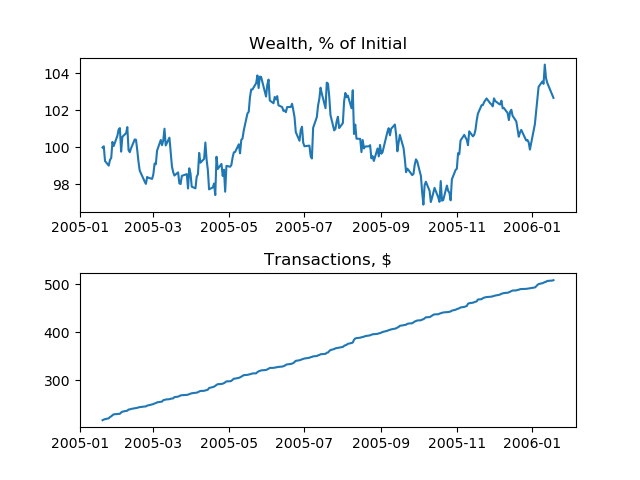
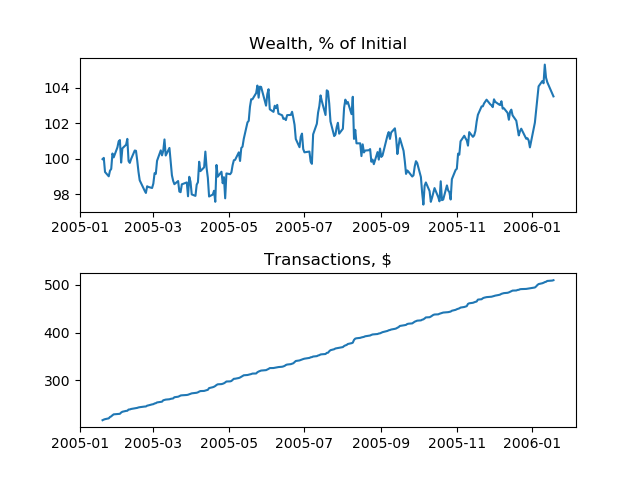
added mm interest to portfolio calculations, updated graphs

diff --git a/trading_strats.py b/trading_strats.py
@@ -3,7 +3,7 @@ import numpy as np
 from matplotlib import pyplot as plt
 
 class Portfolio:
-	def __init__(self, prices, dates):
+	def __init__(self, prices, mm_rates, dates):
 		self.W = []
 		self.cumulative_tc = []
 		self.purchases = []
@@ -16,21 +16,22 @@ class Portfolio:
 		self.prices = prices
 		self.N = len(dates)
 		self.dates = dates
+		self.mm_rates = mm_rates
 
 	def run(self):
 		num_assets = Portfolio.num_s+1
 		pi = np.full(Portfolio.num_s, 1./num_assets)
 		theta_n_prev = np.zeros(Portfolio.num_s)
-		# TODO add money market interest 
-		# use same-day 3mo treasury rate to approximate
-		# traded on all days, except holdiays
-		# r_daily = (1.+r/100.0)**1/360? -1.
 		mm_balance = self.initW
 		for i in range(self.N):
 			p_n = self.prices[:,i]
 			if i == 0:
 				w_n_prev =  self.initW
 			else:
+				day_gap = (self.dates[i]-self.dates[i-1])/np.timedelta64(1,'D')
+				mm_rate_prev = self.mm_rates[i-int(day_gap)]
+				mm_interest_rate = (1.+mm_rate_prev)**day_gap
+				mm_balance = mm_balance*mm_interest_rate
 				w_n_prev =  np.sum(theta_n_prev*p_n)+mm_balance
 			theta_n = w_n_prev*pi/p_n
 			delta_shares = theta_n - theta_n_prev
@@ -115,8 +116,23 @@ CSCO=pd.read_csv('CSCO.csv')["Adj Close"].to_numpy()
 GE=pd.read_csv('GE.csv')["Adj Close"].to_numpy()
 prices = np.vstack((MSFT, CSCO, GE))
 t_dates = pd.to_datetime(pd.read_csv('GE.csv')["Date"]).to_numpy()
-3mo_rates=pd.read_csv('DGS3MO.csv')['Rate']
 
+# get indices of each trade date from treasury 3mo dates array
+treasury_3mo = pd.read_csv('DGS3MO.csv')
+treasury_3mo_dates = pd.to_datetime(treasury_3mo["DATE"]).to_numpy()
+indices = []
+last_elem = 0.
+for t_date in t_dates:
+	if t_date in treasury_3mo_dates:
+		last_elem = np.where(treasury_3mo_dates==t_date)[0][0]
+	indices.append(last_elem)
+
+# get the 3mo rates for the subset indices
+raw_3mo_rates=pd.to_numeric(treasury_3mo["Rate"]).to_numpy()
+treasury_rates = raw_3mo_rates[np.array(indices)]
+
+# use same-day 3mo treasury rate to approximate daily MM rate
+mm_rates = (1.+treasury_rates/100.0)**(1./360.)-1.
 
 N = len(prices[0])
 Portfolio.num_s = len(prices)
@@ -124,7 +140,7 @@ trading_days_in_year = 252
 Portfolio.tN = trading_days_in_year
 
 print("All 20 years")
-full_portfolio = Portfolio(prices, t_dates)
+full_portfolio = Portfolio(prices, mm_rates, t_dates)
 full_portfolio.run()
 full_portfolio.print_stats()
 print()
@@ -164,7 +180,8 @@ print("Most volatile year")
 v_range = range(volatile_start_index,volatile_start_index+trading_days_in_year)
 volatile_prices = prices[:,v_range]
 volatile_dates = t_dates[v_range]
-volatile_portfolio = Portfolio(volatile_prices, volatile_dates)
+volatile_mm = mm_rates[v_range]
+volatile_portfolio = Portfolio(volatile_prices, volatile_mm, volatile_dates)
 volatile_portfolio.run()
 volatile_portfolio.print_stats()
 print()
@@ -173,7 +190,8 @@ print("Least volatile year")
 s_range = range(stable_start_index,stable_start_index+trading_days_in_year)
 stable_prices = prices[:,s_range]
 stable_dates = t_dates[s_range]
-stable_portfolio = Portfolio(stable_prices, stable_dates)
+stable_mm = mm_rates[s_range]
+stable_portfolio = Portfolio(stable_prices, stable_mm, stable_dates)
 stable_portfolio.run()
 stable_portfolio.print_stats()
 print()
@@ -182,7 +200,8 @@ print("Best year")
 h_range = range(highest_start_index,highest_start_index+trading_days_in_year)
 highest_prices = prices[:,h_range]
 highest_dates = t_dates[h_range]
-highest_portfolio = Portfolio(highest_prices, highest_dates)
+highest_mm = mm_rates[h_range]
+highest_portfolio = Portfolio(highest_prices, highest_mm, highest_dates)
 highest_portfolio.run()
 highest_portfolio.print_stats()
 print()
@@ -191,7 +210,8 @@ print("Worst year")
 l_range = range(lowest_start_index,lowest_start_index+trading_days_in_year)
 lowest_prices = prices[:,l_range]
 lowest_dates = t_dates[l_range]
-lowest_portfolio = Portfolio(lowest_prices, lowest_dates)
+lowest_mm = mm_rates[l_range]
+lowest_portfolio = Portfolio(lowest_prices, lowest_mm, lowest_dates)
 lowest_portfolio.run()
 lowest_portfolio.print_stats()
 
